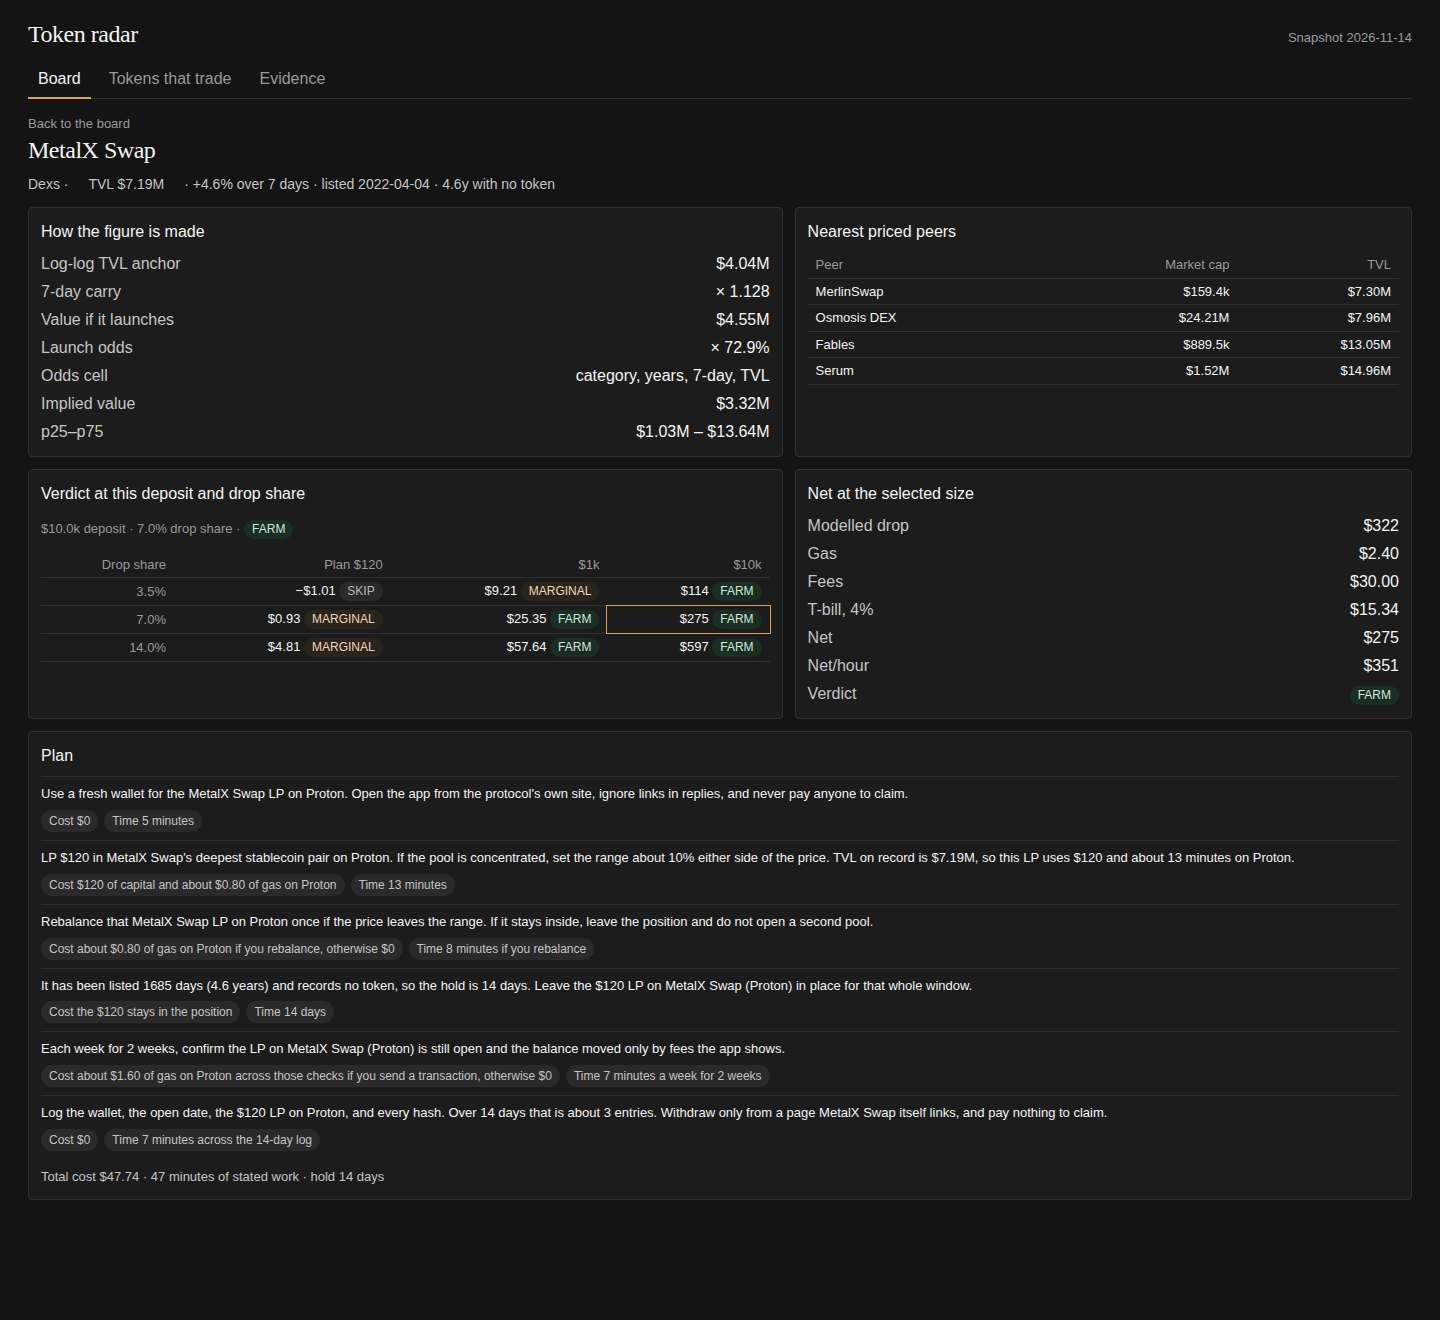
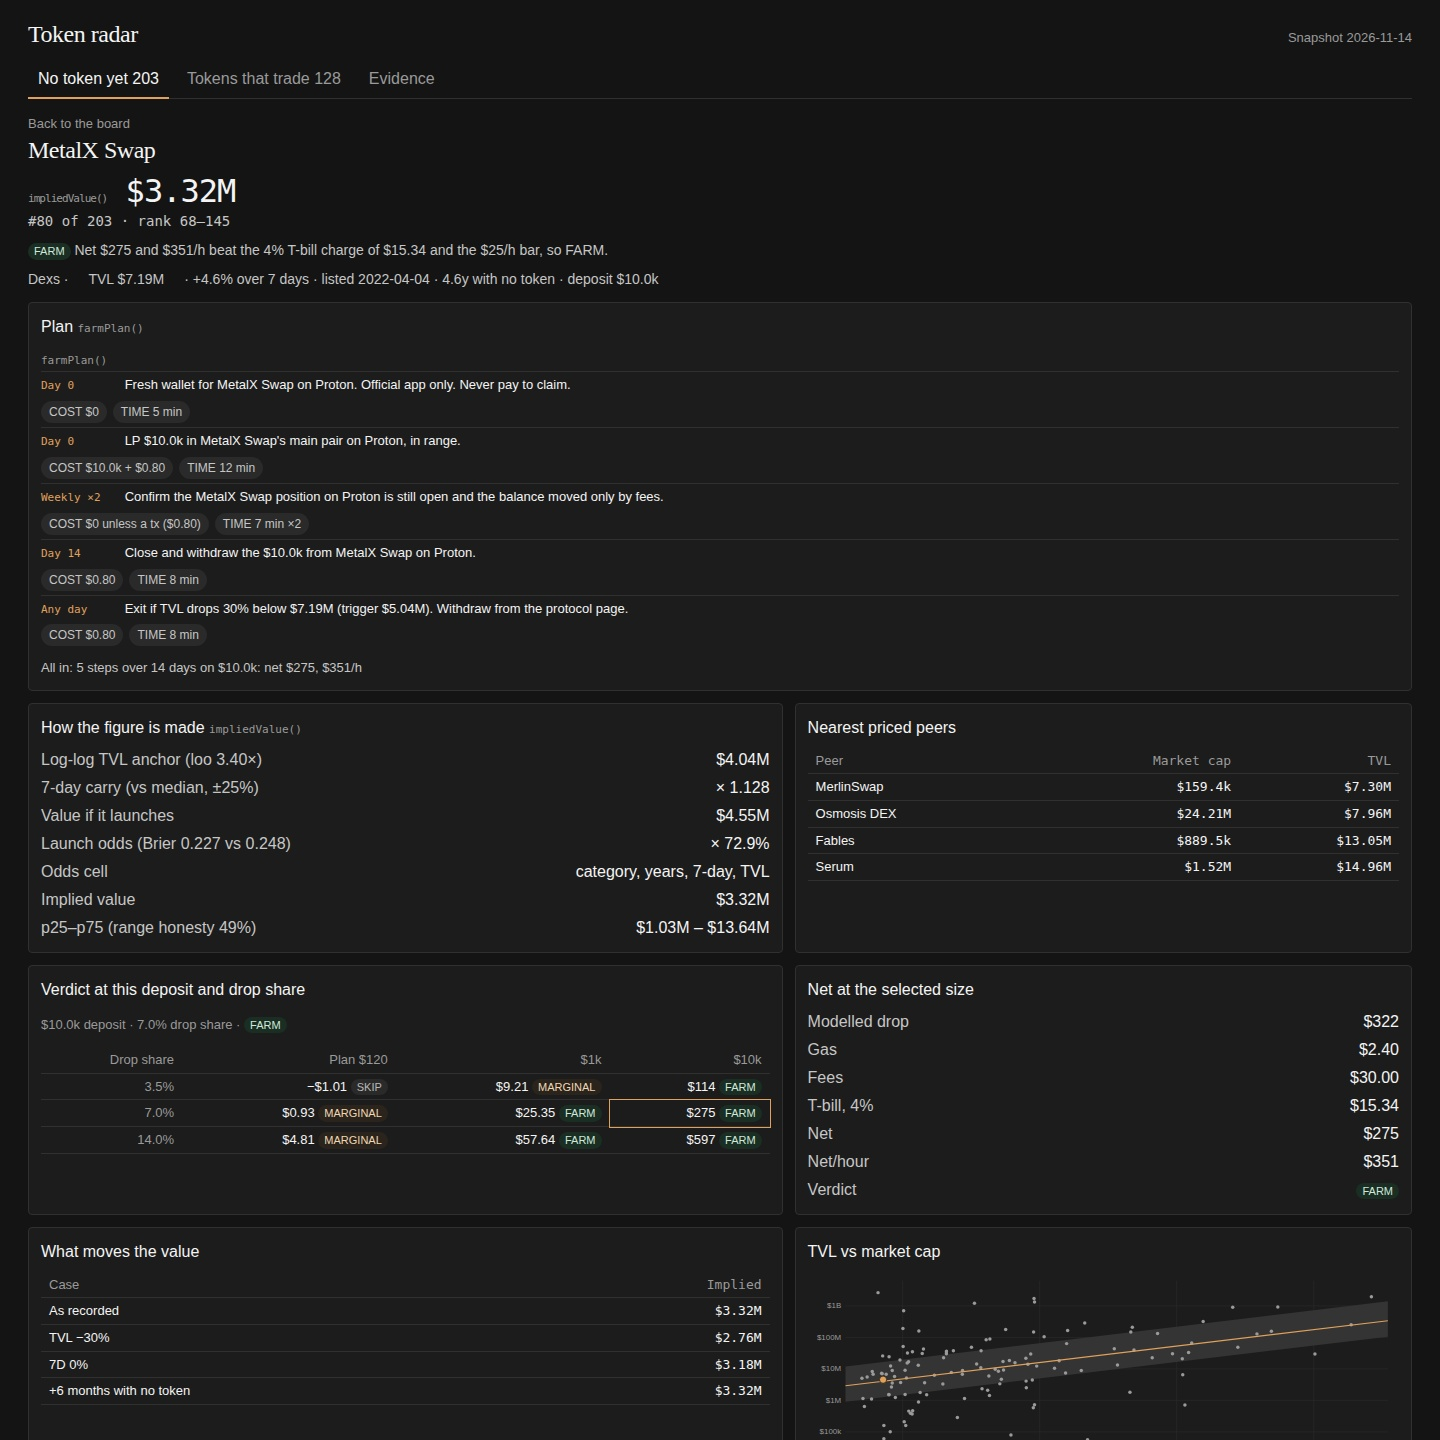
fix: fit the $10k plan and scatter in the detail frame

diff --git a/dashboard/app.js b/dashboard/app.js
@@ -292,7 +292,8 @@
     var odds = h('table', null, [
       h('thead', null, [h('tr', null, [h('th', { text: 'Launch odds, added in order' }), h('th', { class: 'num', text: 'Brier' }), h('th', { class: 'num', text: 'AUC' })])]),
       h('tbody', null,       ev.odds_terms.map(function (term, i) {
-        var mark = i === 0 ? 'baseline' : 'kept';
+        var prev = i === 0 ? term.brier : ev.odds_terms[i - 1].brier;
+        var mark = i === 0 ? 'baseline' : (term.brier <= prev ? 'kept' : 'tested · nested');
         return h('tr', null, [h('td', { text: term.term + ' · ' + mark }), h('td', { class: 'num', text: term.brier.toFixed(3) }), h('td', { class: 'num', text: term.auc.toFixed(3) })]);
       })),
     ]);
@@ -613,11 +614,7 @@
         h('td', { class: 'num', text: ageText(row.age_days) }),
         h('td', { class: 'num' }, [oddsBar(row.p_token)]),
         h('td', { class: 'num', text: money(row.launch_value_usd) }),
-        h('td', { class: 'num range-cell' }, [
-          h('span', { text: money(row.implied_value_usd) }),
-          rangeBar(row),
-          h('span', { class: 'band', text: money(row.low_value_usd) + '–' + money(row.high_value_usd) }),
-        ]),
+        h('td', { class: 'num nowrap', text: money(row.implied_value_usd) + '  ' + money(row.low_value_usd) + '–' + money(row.high_value_usd) }),
         h('td', { class: 'verdict' }, [pill(verdict), h('div', { class: 'band', text: money(econ.net) })]),
         h('td', { class: 'num', text: money(econ.perHour) }),
         h('td', { class: 'plan' }, [
@@ -711,6 +708,10 @@
           ' · ' + ageText(row.age_days) + ' with no token · deposit ' + money(dep),
         ]),
       ]),
+      h('section', { class: 'panel plan-panel' }, [
+        h('h3', null, ['Plan ', fn('farmPlan()')]),
+        stepList(row, dep),
+      ]),
       h('div', { class: 'detail-grid' }, [
         h('section', { class: 'panel' }, [
           h('h3', null, ['How the figure is made ', fn('impliedValue()')]),
@@ -760,14 +761,10 @@
             ]),
           ]),
         ]),
-        h('section', { class: 'panel span2' }, [
+        h('section', { class: 'panel' }, [
           h('h3', { text: 'TVL vs market cap' }),
           scatter(row),
         ]),
-      ]),
-      h('section', { class: 'panel', style: 'margin-top:12px' }, [
-        h('h3', null, ['Plan ', fn('farmPlan()')]),
-        stepList(row, dep),
       ]),
     ]);
   }
@@ -783,7 +780,7 @@
   function scatter(mark) {
     var ev = DATA.evidence;
     var W = 820;
-    var H = 480;
+    var H = mark ? 280 : 400;
     var L = 52;
     var R = 16;
     var T = 12;
@@ -799,6 +796,12 @@
       y0 = Math.min(y0, p.y, lineY(p.x) + ev.band.low);
       y1 = Math.max(y1, p.y, lineY(p.x) + ev.band.high);
     });
+    if (mark) {
+      var mx0 = Math.log10(mark.tvl_usd);
+      var my0 = Math.log10(Math.max(1, mark.launch_value_usd));
+      x0 = Math.min(x0, mx0); x1 = Math.max(x1, mx0);
+      y0 = Math.min(y0, my0); y1 = Math.max(y1, my0);
+    }
     x0 -= 0.12; x1 += 0.12;
     var pad = (y1 - y0) * 0.08;
     y0 -= pad; y1 += pad;

diff --git a/dashboard/app.css b/dashboard/app.css
@@ -66,7 +66,7 @@ td { padding: 4px 8px; border-bottom: 1px solid var(--line); vertical-align: mid
 .range-cell .range { display: inline-block; margin: 0 6px; vertical-align: middle; }
 .nowrap { white-space: nowrap; }
 .board { table-layout: fixed; }
-.board th, .board td { overflow: hidden; text-overflow: ellipsis; }
+.board td:nth-child(3) { overflow: hidden; text-overflow: ellipsis; }
 .board tbody tr.row { height: 52px; }
 .board th:nth-child(1), .board td.pick { width: 28px; }
 .board th:nth-child(2) { width: 64px; }
@@ -74,7 +74,8 @@ td { padding: 4px 8px; border-bottom: 1px solid var(--line); vertical-align: mid
 .board th:nth-child(4) { width: 92px; }
 .board th:nth-child(5), .board th:nth-child(6) { width: 72px; }
 .board th:nth-child(7) { width: 92px; }
-.board th:nth-child(8), .board th:nth-child(9) { width: 108px; }
+.board th:nth-child(8) { width: 96px; }
+.board th:nth-child(9) { width: 148px; }
 .board th:nth-child(10) { width: 110px; }
 .board th:nth-child(11) { width: 84px; }
 .th-sort { color: inherit; font: inherit; text-align: inherit; width: 100%; }
@@ -121,7 +122,7 @@ input, select { background: var(--surface); border: 1px solid var(--line); borde
 .pill.v-no { background: var(--skip-bg); color: var(--skip-fg); }
 .expand { color: var(--muted); font-size: 12px; }
 .expanded td { background: #191919; }
-.step { padding: 8px 0; border-top: 1px solid var(--line); }
+.step { padding: 4px 0; border-top: 1px solid var(--line); }
 .step p { margin: 0; font-size: 13px; line-height: 1.45; }
 .chips { display: flex; flex-wrap: wrap; gap: 6px; margin-top: 6px; }
 .mini { font-size: 12px; padding: 2px 8px; border-radius: 999px; background: #2a2a2a; color: var(--secondary); white-space: nowrap; }
@@ -142,7 +143,7 @@ dd { margin: 0; text-align: right; font-variant-numeric: tabular-nums; }
 .grid3 td, .grid3 th { text-align: right; }
 .grid3 td.on { outline: 1px solid var(--accent); }
 .chart-card { background: var(--surface); border: 1px solid var(--line); border-radius: 4px; padding: 12px; }
-svg.chart { display: block; width: 100%; height: auto; aspect-ratio: 820 / 480; }
+svg.chart { display: block; width: 100%; height: auto; max-height: 360px; }
 svg.chart text { fill: #9a9a9a; font-family: var(--sans); font-size: 11px; }
 .chart .grid { stroke: #2a2a2a; stroke-width: 1; }
 .chart .dot { fill: #9a9a9a; }
@@ -161,3 +162,4 @@ caption.fn { text-align: left; caption-side: top; padding: 0 8px 4px; }
 .chart .mark { fill: var(--accent); stroke: #141414; stroke-width: 1; }
 .tickwrap { margin-top: 8px; }
 .stats { font-variant-numeric: tabular-nums; }
+.plan-panel { margin: 0 0 12px; }
